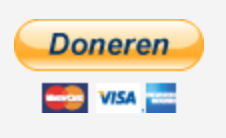
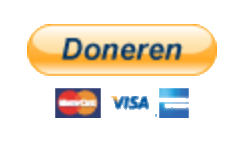
+ Added donate button to README.md

Changed region(s): [[0.0619, 0.1159, 0.9292, 0.5217], [0.1549, 0.5797, 0.8053, 0.8406]]

diff --git a/README.md b/README.md
@@ -1,4 +1,5 @@
 # com.logitech.harmony.hub
+[<img align="right" src="https://github.com/netactivenl/com.logitech.harmony.hub/raw/master/assets/images/donate.png">](https://www.paypal.com/cgi-bin/webscr?cmd=_s-xclick&hosted_button_id=4XUDMSVD2EZ3J)
 This repo containing the sources of the Harmony Hub App for Athom's fantastic [Homey](http://www.athom.com) product.
 
 ### 1. Install the Logitech Harmony Hub app
